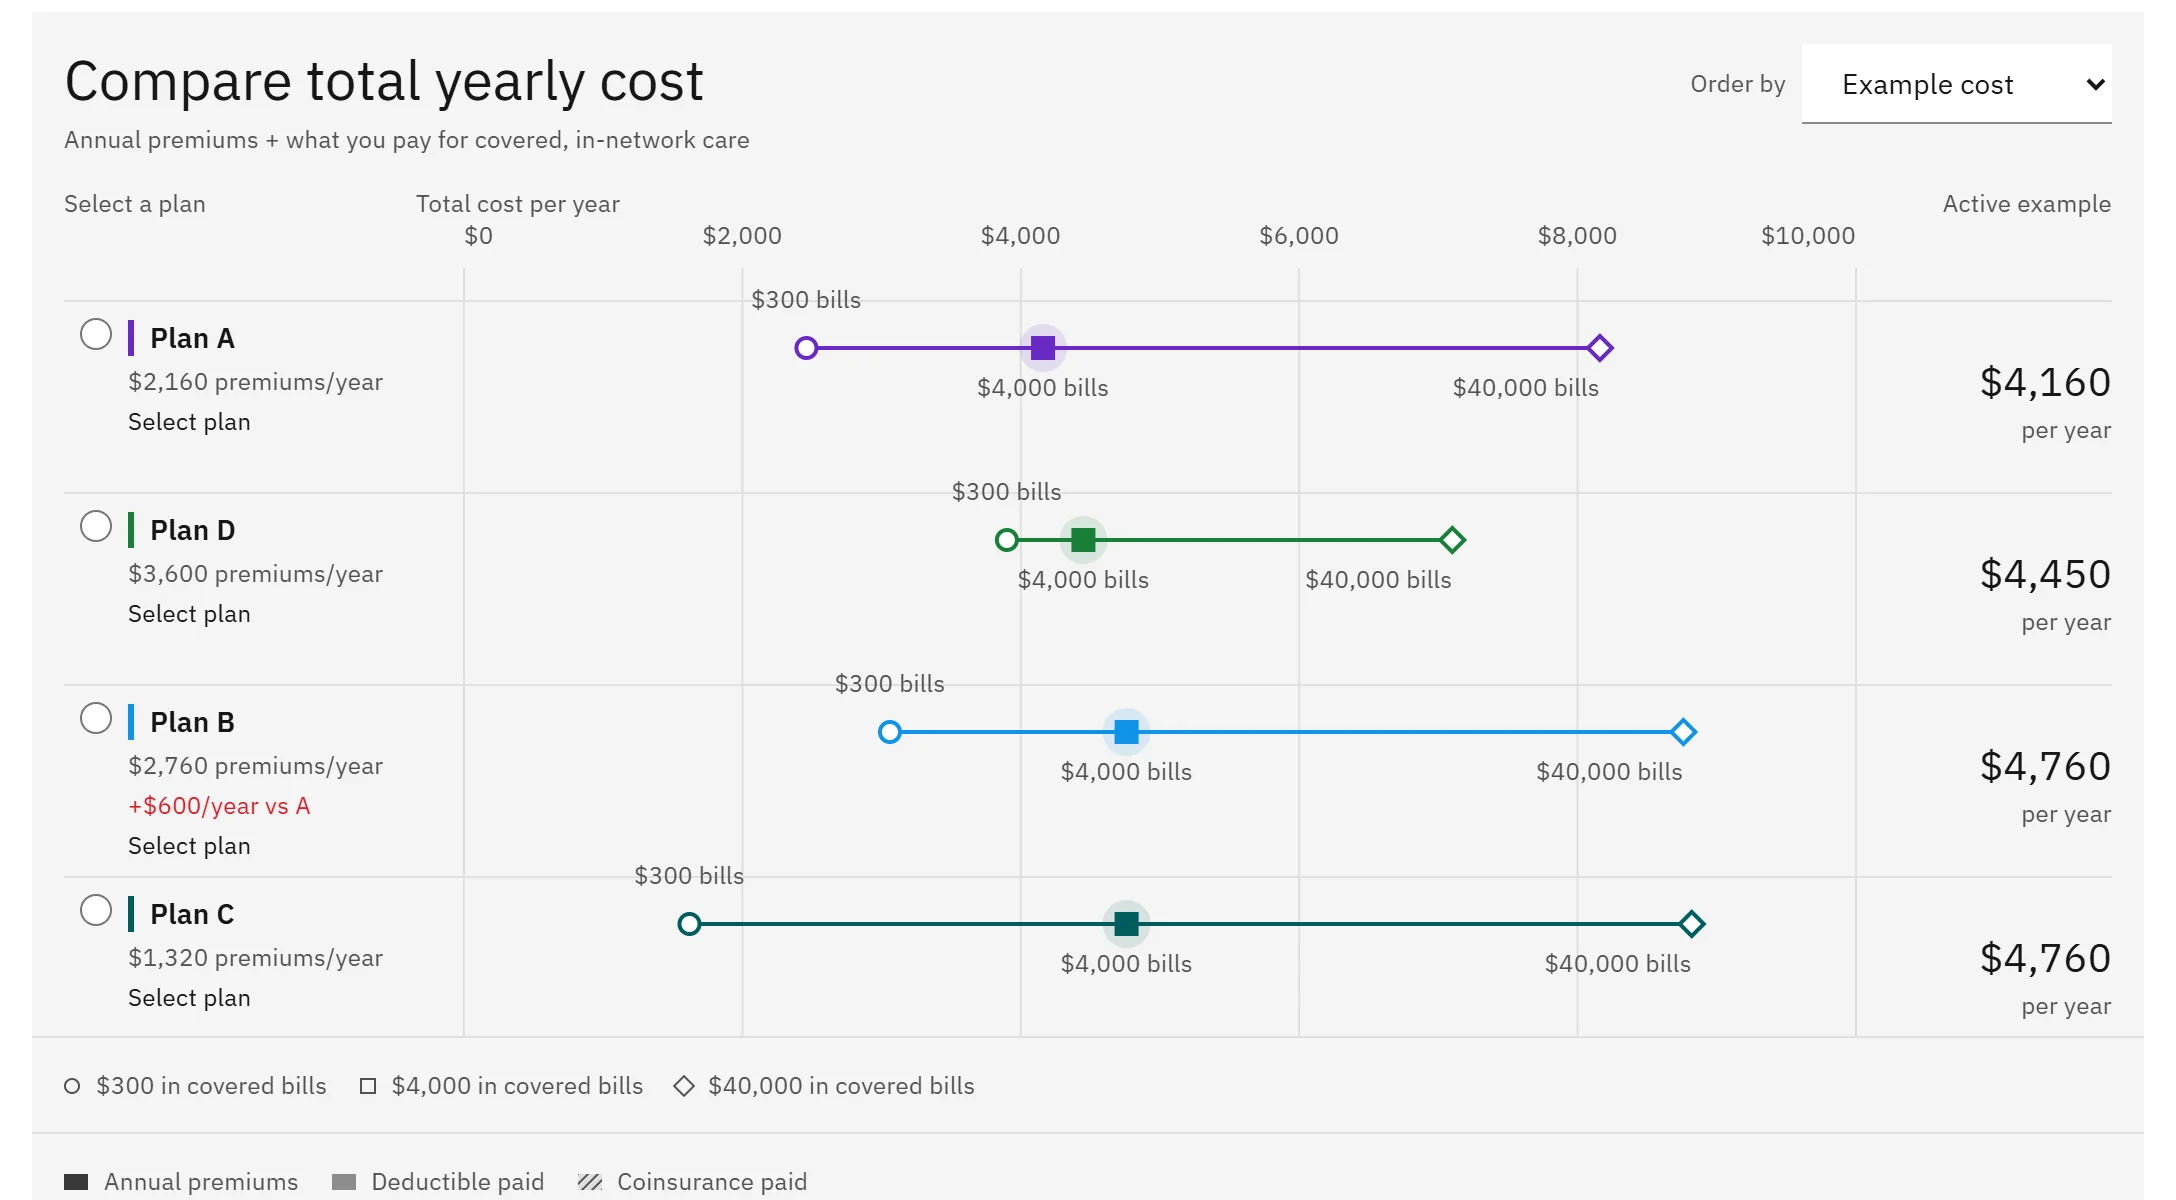
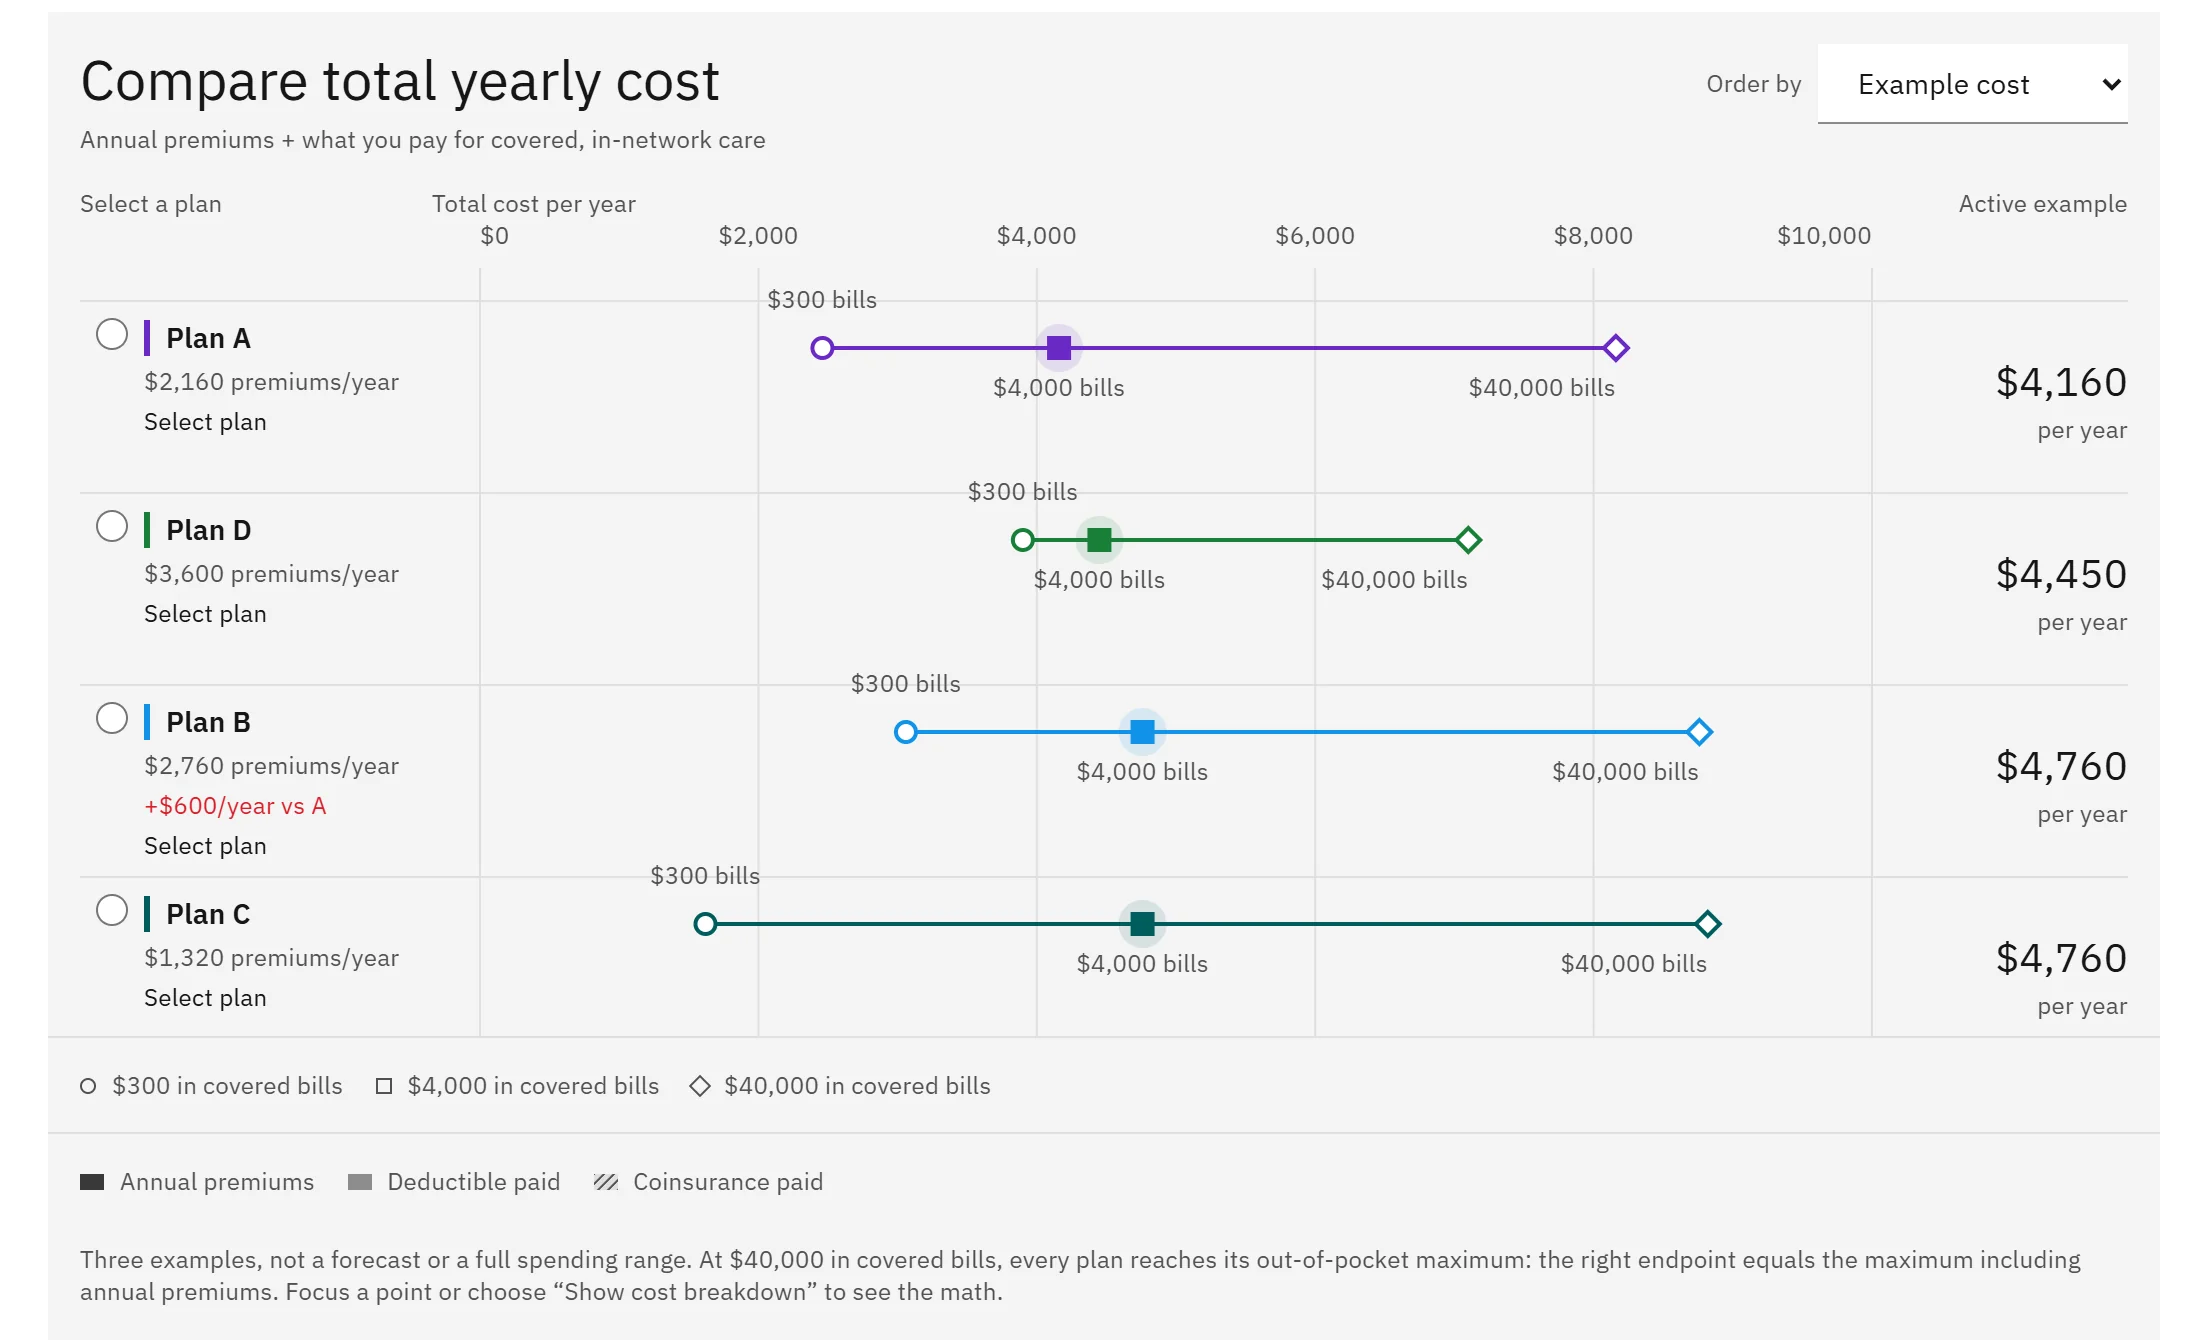
Critique pass 1 (D3): open the full app from links, a whole D4 tile
Links that open Last 100 Feet on its own (task links on phones, "Open it in a
new tab") now go to the full app, which runs full screen on a phone and shows
the screen list on a desktop, instead of the bare 390 px screen the embed
uses (kit.openUrl). The D4 tile is re-cropped to the tile's proportions with
less parallax bleed, so "Compare total yearly cost" and the totals column are
no longer clipped.

diff --git a/app/src/product/v2/LivePrototype.jsx b/app/src/product/v2/LivePrototype.jsx
@@ -22,7 +22,7 @@ export default function LivePrototype({id, heading, lede, phoneLede, tasks, star
       <ol className="v2-tasks" data-reveal="">
         {tasks.map((task, i) => <li key={task.id}>
           {phone
-            ? phoneLink ? <a className="v2-task" href={kit.url(task.screen, task.art)} target="_blank" rel="noopener">
+            ? phoneLink ? <a className="v2-task" href={(kit.openUrl || kit.url)(task.screen, task.art)} target="_blank" rel="noopener">
                 <span className="v2-task-text">{task.title}</span><span className="v2-task-arrow"><ArrowUpRight/></span></a>
               : <p className="v2-task is-static"><span className="v2-task-text">{task.title}</span></p>
             : <button type="button" className={`v2-task${state.task === i ? ' is-current' : ''}`} aria-pressed={state.task === i} onClick={() => run(task, i)}>
@@ -32,7 +32,7 @@ export default function LivePrototype({id, heading, lede, phoneLede, tasks, star
       </ol>
       <div className="v2-live-tools" data-reveal="">
         {phone ? null : <button type="button" className="v2-button" onClick={reset}><Reset/>Reset the prototype</button>}
-        {phone && !phoneLink ? null : <a className="v2-link" href={kit.url(current?.screen || start.screen, current?.art || start.art)} target="_blank" rel="noopener">
+        {phone && !phoneLink ? null : <a className="v2-link" href={(kit.openUrl || kit.url)(current?.screen || start.screen, current?.art || start.art)} target="_blank" rel="noopener">
           <span className="v2-link-text">{phone ? 'Open the prototype full screen' : 'Open it in a new tab'}</span><ArrowUpRight/><span className="v2-sr"> (opens in a new tab)</span></a>}
       </div>
       {phone && phoneNote ? <p className="v2-live-note" data-reveal="">{phoneNote}</p> : null}

diff --git a/app/src/product/v2/Device.jsx b/app/src/product/v2/Device.jsx
@@ -53,7 +53,10 @@ export const CNTL_PAGE_KIT = {...CNTL_KIT, h: 2080, viewH: 900, shot: s => `/ass
 // prototype's README and scripts/capture-last-100-feet-screens.mjs.
 export const l100Url = screen => `/proto/last-100-feet/index.html?shot&screen=${encodeURIComponent(screen)}`;
 export const l100Shot = screen => `/assets/product/last-100-feet/screens/${screen}.webp`;
-export const L100_KIT = {w: 390, h: 844, url: l100Url, shot: l100Shot, shotW: 780, shotH: 1688, drive: 'reload'};
+// Links that open the prototype on its own (phones, new tabs) use the full app: full screen on a phone, the
+// presentation shell with the screen list on a desktop.
+export const L100_KIT = {w: 390, h: 844, url: l100Url, shot: l100Shot, shotW: 780, shotH: 1688, drive: 'reload',
+  openUrl: screen => `/proto/last-100-feet/index.html?screen=${encodeURIComponent(screen)}`};
 
 /** Moves an already loaded popstate-kit prototype to another screen. */
 function drive(win, screen, param) {

diff --git a/app/src/product/v2/tiles.css b/app/src/product/v2/tiles.css
@@ -69,8 +69,8 @@ a.pt-link:focus-visible .pt-ch{transform:translateY(-1.15em)}
 
 /* D4: the yearly-cost chart, the cost-difference note lifted in front */
 .pt-cntl{position:absolute;inset:0;display:block;background:#f4f4f4}
-.pt-cntl-chart{position:absolute;inset:-14px;display:block}
-.pt-cntl-chart img{display:block;width:100%;height:100%;object-fit:cover;object-position:30% 30%}
+.pt-cntl-chart{position:absolute;inset:-6px;display:block}
+.pt-cntl-chart img{display:block;width:100%;height:100%;object-fit:cover;object-position:50% 30%}
 .pt-cntl-note{position:absolute;left:5%;right:12%;bottom:7%;display:block;overflow:hidden;background:#edf5ff;box-shadow:0 0 0 1px #11111414,0 1px 1px #11111410,0 18px 36px -16px #11111459}
 .pt-cntl-note img{display:block;width:100%;height:auto}
 @media(max-width:760px){.pt-cntl-chart img{object-position:3% 30%}}

diff --git a/app/src/product/v2/TileArt.jsx b/app/src/product/v2/TileArt.jsx
@@ -34,7 +34,7 @@ export function L100TileArt() {
 /** D4: the prototype's yearly-cost chart, with its cost-difference note lifted in front. Screenshots only. */
 export function CntlTileArt() {
   return <span className="pt-cntl">
-    <span className="pt-cntl-chart" data-depth="8"><img src="/assets/product/choose-not-to-lose/tile.webp" width={2176} height={1200} alt="" loading="lazy" decoding="async"/></span>
+    <span className="pt-cntl-chart" data-depth="8"><img src="/assets/product/choose-not-to-lose/tile.webp" width={2192} height={1340} alt="" loading="lazy" decoding="async"/></span>
     <span className="pt-cntl-note" data-depth="20"><img src="/assets/product/choose-not-to-lose/tile-note.webp" width={2112} height={200} alt="" loading="lazy" decoding="async"/></span>
   </span>;
 }

diff --git a/app/src/product/content.js b/app/src/product/content.js
@@ -68,7 +68,7 @@ export const PRODUCT_CASES = [
     when: 'Oct 2026',
     status: 'Testing next',
     // The comparison chart of the prototype (round 2); the cost-difference note is lifted in front on the tile.
-    thumb: {src: '/assets/product/choose-not-to-lose/tile.webp', width: 2176, height: 1200},
+    thumb: {src: '/assets/product/choose-not-to-lose/tile.webp', width: 2192, height: 1340},
     page: true,
   },
 ];
